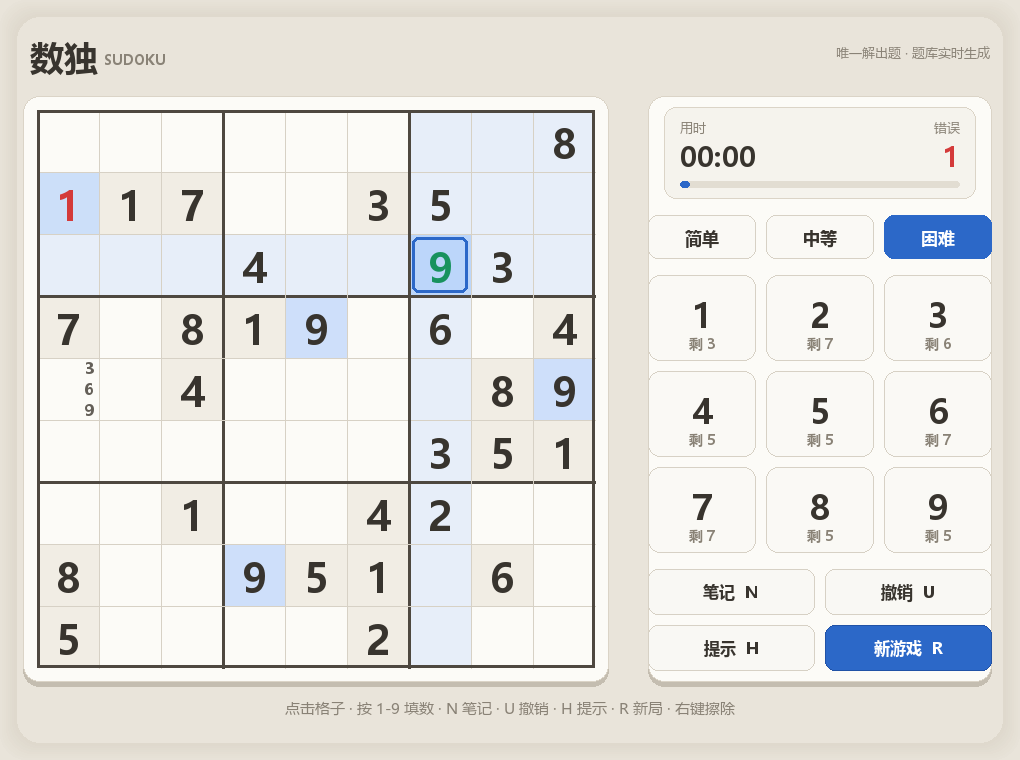
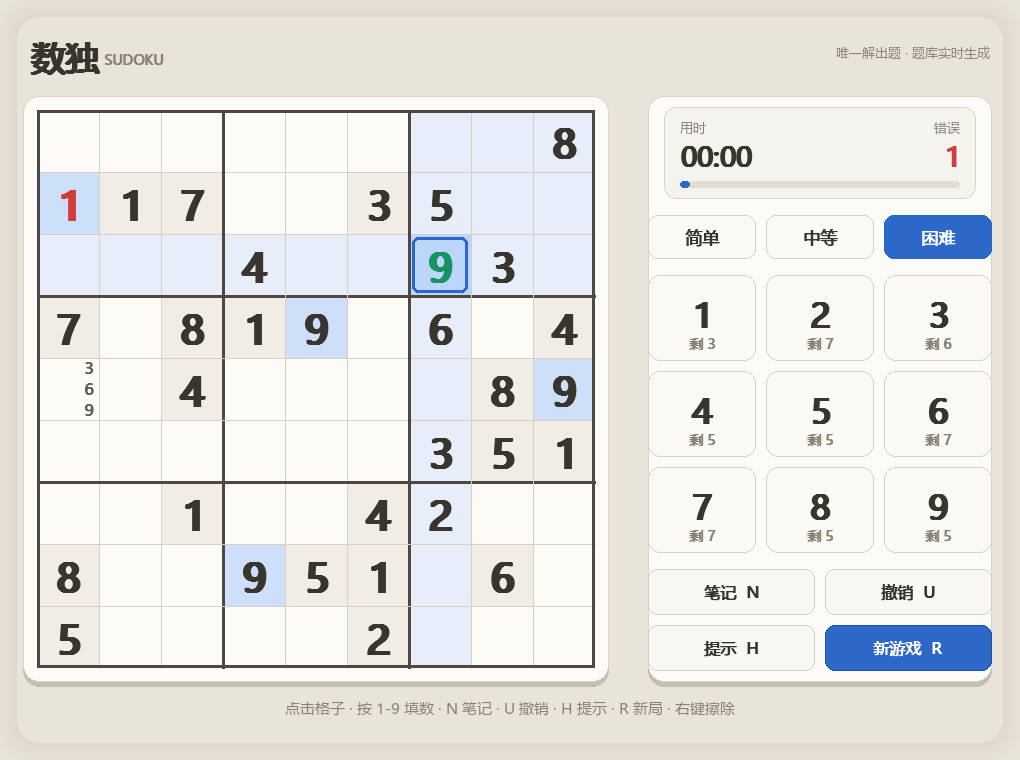
v1.1: 跨平台中文字体字形校验，修 Linux 上必然出现的豆腐块
原 Linux 分支只留了 /usr/share/fonts/truetype/droid/DroidSansFallbackFull.ttf
一条路径，它属 fonts-droid-fallback 包、主流发行版默认不装 —— 装了
fonts-noto-cjk 也对不上，于是必然落到 SysFont(None)，满屏方框。

字体：
- 探测改为三级（候选路径 → fontconfig 族名 → SysFont），每一级都做字形校验：
  渲染多个不同汉字比对位图，只有真画得出汉字才采用
- 候选补全 Windows / macOS / Linux 三平台常见安装位置（Noto CJK、文泉驿、
  华文、思源、Droid 等）
- 缓存 Font 增加 reset_font_cache()：pygame.quit() 会释放底层 TTF_Font，
  复用旧缓存对象会在 render 时直接段错误，故每次 pygame.init() 后清缓存

自检：
- 新增 4 条字体断言（反面样本 / 探针 / 正向 / 反事实回归）
- 自检新增断言计数，运行结束打印准确条数
- 断言总数 914 → 918

其他：
- run 脚本弃用清华源（对新版 pip 返回 403），改腾讯云镜像 + 官方源回退
- 新增 --version

diff --git a/sudoku.py b/sudoku.py
@@ -28,6 +28,8 @@ import sys
 
 import pygame
 
+__version__ = "1.1"
+
 try:
     import numpy as _np
 except Exception:                                    # numpy 缺失 -> 降级静音
@@ -314,14 +316,48 @@ def fmt_time(t):
 
 
 _FONT_CACHE = {}
-_FONT_PATHS = (
+
+# 跨平台中文界面字体：按「候选路径 → fontconfig 族名 → SysFont」逐级探测，
+# 每一级都必须通过字形校验 —— 只有真的画得出汉字才会被采用。
+#
+# 为什么非要验字形：pygame 的 match_font 会给出「名字沾边、其实没有汉字」的
+# 字体（本机实测 dejavusans / arial / liberationsans 一律命中 Arial Narrow），
+# 一旦采用，界面中文就会静默变成一屏方框。
+# 旧版 Linux 只有一条 DroidSansFallbackFull.ttf 路径（属 fonts-droid-fallback
+# 包，主流发行版默认不装），装了 fonts-noto-cjk 也对不上 —— 必然落到
+# SysFont(None)，满屏方框。
+FONT_CANDIDATES = [
+    # Windows
     r"C:\Windows\Fonts\msyh.ttc",
     r"C:\Windows\Fonts\msyhbd.ttc",
     r"C:\Windows\Fonts\simhei.ttf",
+    r"C:\Windows\Fonts\Deng.ttf",
     r"C:\Windows\Fonts\simsun.ttc",
-    r"/System/Library/Fonts/PingFang.ttc",
+    # macOS
+    "/System/Library/Fonts/PingFang.ttc",
+    "/System/Library/Fonts/STHeiti Medium.ttc",
+    "/System/Library/Fonts/Hiragino Sans GB.ttc",
+    "/Library/Fonts/Arial Unicode.ttf",
+    # Linux（Debian/Ubuntu · Fedora · Arch 的常见安装位置）
+    "/usr/share/fonts/opentype/noto/NotoSansCJK-Regular.ttc",
+    "/usr/share/fonts/opentype/noto/NotoSansCJKsc-Regular.otf",
+    "/usr/share/fonts/truetype/noto/NotoSansCJK-Regular.ttc",
+    "/usr/share/fonts/noto-cjk/NotoSansCJK-Regular.ttc",
+    "/usr/share/fonts/truetype/wqy/wqy-zenhei.ttc",
+    "/usr/share/fonts/truetype/wqy/wqy-microhei.ttc",
+    "/usr/share/fonts/wenquanyi/wqy-zenhei/wqy-zenhei.ttc",
+    "/usr/share/fonts/truetype/arphic/uming.ttc",
     "/usr/share/fonts/truetype/droid/DroidSansFallbackFull.ttf",
-)
+]
+
+# 路径未必覆盖所有发行版，再交给 fontconfig 按族名找一遍。
+# 这里刻意不放 dejavusans / arial 这类没有汉字字形的通用族名。
+FONT_FAMILIES = ("notosanscjksc,notosanscjk,sourcehansanssc,wqyzenhei,wqymicrohei,"
+                 "microsoftyahei,microsoftyaheiui,msyh,simhei,simsun,dengxian,"
+                 "pingfangsc,hiraginosansgb,stheiti,heitisc,arialunicodems")
+
+_CJK_PROBE = "汉字测试"        # 探针：这几个字必须渲染出彼此不同的字形
+_warned_no_cjk = False
 
 
 class _Font:
@@ -344,28 +380,126 @@ class _Font:
         return getattr(self._f, name)
 
 
+def _img_bytes(surf):
+    """取 Surface 的原始字节。pygame 2.1.3 起 tostring 改名 tobytes，两版都兼容。"""
+    fn = getattr(pygame.image, "tobytes", None) or pygame.image.tostring
+    return fn(surf, "RGBA")
+
+
+def reset_font_cache():
+    """清空字体缓存 —— 重新 pygame.init() 之后必须调用。
+
+    为什么不能指望「取用时验活」：pygame.quit() 会释放底层的 TTF_Font，
+    缓存里的 Font 对象随即失效，再拿它 render 会**直接崩在 C 层**（段错误），
+    连 Python 异常都抓不住。所以只能在每次初始化之后主动清掉再重新探测。
+    """
+    _FONT_CACHE.clear()
+
+
+def font_covers_cjk(font):
+    """这个字体真的画得出汉字吗？
+
+    字体缺字时 pygame 会把所有汉字都画成同一个 .notdef 方框（豆腐块），
+    所以拿几个不同的汉字渲染出来比字节：只要有两张位图一模一样，就说明
+    字体里根本没有汉字字形，绝不能拿它当界面字体。
+    """
+    try:
+        digs = [_img_bytes(font.render(ch, True, (255, 255, 255)))
+                for ch in _CJK_PROBE]
+    except Exception:
+        return False
+    return len(set(digs)) == len(digs)
+
+
+def _warn_no_cjk_font():
+    """只提示一次：一个中文字体都没找到时界面会是方框。"""
+    global _warned_no_cjk
+    if _warned_no_cjk:
+        return
+    _warned_no_cjk = True
+    print("[提示] 系统里没找到含汉字字形的字体，界面中文会显示成方框。\n"
+          "       Linux 装一个即可： sudo apt install fonts-noto-cjk",
+          file=sys.stderr)
+
+
 def get_font(size, bold=False):
-    """按候选路径找中文字体，找不到再退回默认字体。结果缓存。"""
+    """找一个真的能显示汉字的字体；全失败则退回默认字体并给出提示。"""
     key = (size, bold)
     f = _FONT_CACHE.get(key)
     if f is not None:
         return f
+
     raw = None
-    order = _FONT_PATHS if not bold else (_FONT_PATHS[1],) + _FONT_PATHS
-    for p in order:
-        if os.path.exists(p):
-            try:
-                raw = pygame.font.Font(p, size)
-                break
-            except Exception:
-                raw = None
+    for p in FONT_CANDIDATES:                         # ① 平台常见路径
+        if not os.path.exists(p):
+            continue
+        try:
+            cand = pygame.font.Font(p, size)
+        except Exception:
+            continue
+        cand.set_bold(bold)
+        if font_covers_cjk(cand):
+            raw = cand
+            break
+
+    if raw is None:                                   # ② fontconfig 按族名
+        try:
+            path = pygame.font.match_font(FONT_FAMILIES, bold=bold)
+            if path:
+                cand = pygame.font.Font(path, size)
+                cand.set_bold(bold)
+                if font_covers_cjk(cand):
+                    raw = cand
+        except Exception:
+            pass
+
+    if raw is None:                                   # ③ SysFont 最后兜底
+        try:
+            cand = pygame.font.SysFont(FONT_FAMILIES, size, bold=bold)
+            if font_covers_cjk(cand):
+                raw = cand
+        except Exception:
+            pass
+
     if raw is None:
-        raw = pygame.font.SysFont(None, size)
-    if bold:
-        raw.set_bold(True)
+        # 一个汉字都画不出来的字体不能用，宁可退回 pygame 自带字体并明确提示。
+        _warn_no_cjk_font()
+        raw = pygame.font.Font(None, size)
+        raw.set_bold(bold)
+
     f = _Font(raw, key)
     _FONT_CACHE[key] = f
     return f
+
+
+def font_regression(bad_path):
+    """反事实自检：把候选全换成「没有汉字的字体」，get_font 必须识别出来。
+
+    返回 (bool, str)。旧写法「名字匹配成功就直接用」会让界面静默变成方框，
+    这条断言就是防止那种写法复活。
+    """
+    global FONT_FAMILIES, _warned_no_cjk
+    saved_cands = list(FONT_CANDIDATES)
+    saved_fams = FONT_FAMILIES
+    saved_cache = dict(_FONT_CACHE)
+    saved_warned = _warned_no_cjk
+    try:
+        FONT_CANDIDATES[:] = [bad_path]
+        FONT_FAMILIES = "dejavusans,arial,liberationsans"
+        _FONT_CACHE.clear()
+        # 这个场景注定找不到汉字字体，别刷出误导性的「你的系统没有中文字体」
+        _warned_no_cjk = True
+        got = get_font(24)
+        ref = pygame.font.Font(None, 24)
+        same = (_img_bytes(got.render("汉", True, (255, 255, 255)))
+                == _img_bytes(ref.render("汉", True, (255, 255, 255))))
+        return same, bad_path
+    finally:
+        FONT_CANDIDATES[:] = saved_cands
+        FONT_FAMILIES = saved_fams
+        _FONT_CACHE.clear()
+        _FONT_CACHE.update(saved_cache)
+        _warned_no_cjk = saved_warned
 
 
 _TEXT_CACHE = {}
@@ -1237,6 +1371,9 @@ for _i in range(1, 10):
 
 def main(argv=None):
     argv = list(sys.argv[1:] if argv is None else argv)
+    if "--version" in argv:
+        print("sudoku %s" % __version__)
+        return 0
     diff = "easy"
     if "--diff" in argv:
         diff = argv[argv.index("--diff") + 1]
@@ -1254,6 +1391,9 @@ def main(argv=None):
     except Exception:
         pass
     pygame.init()
+
+    # 重新初始化后旧 Font 已失效，必须清缓存（不清会在 render 时段错误）
+    reset_font_cache()
     try:
         pygame.mixer.init()
     except Exception:

diff --git a/selftest.py b/selftest.py
@@ -29,9 +29,11 @@ import sudoku as S  # noqa: E402
 
 SHOT_DIR = os.path.join(os.path.dirname(os.path.abspath(__file__)), "preview")
 FAILURES = []
+CHECKS = [0]              # 已执行的断言总数（成功也计），用于 README 徽章
 
 
 def check(cond, msg):
+    CHECKS[0] += 1
     if not cond:
         FAILURES.append(msg)
         print("  [FAIL] " + msg)
@@ -748,6 +750,9 @@ def main():
     except Exception:
         pass
     pygame.init()
+
+    # 重新初始化后旧 Font 已失效，必须清缓存（不清会在 render 时段错误）
+    S.reset_font_cache()
     try:
         pygame.mixer.init()
     except Exception:
@@ -782,18 +787,56 @@ def main():
     test_full_playthrough(game)
     test_render_and_perf(game)
 
+    # ------------------------------------------------------------------
+    note("中文字体字形校验（跨平台不出现豆腐块）")
+    bad_path = pygame.font.match_font("dejavusans,arial,liberationsans")
+    bad_font = None
+    if bad_path and os.path.exists(bad_path):
+        try:
+            bad_font = pygame.font.Font(bad_path, 24)
+        except Exception:
+            bad_font = None
+    check(bad_font is not None and not S.font_covers_cjk(bad_font),
+          "反面样本：本机取不到「名字沾边但没有汉字字形」的字体（path=%s）" % bad_path)
+    check(not S.font_covers_cjk(pygame.font.Font(None, 24)),
+          "探针：默认字体 Font(None) 应被判定为画不出汉字")
+
+    usable = None
+    for _p in S.FONT_CANDIDATES:
+        if not os.path.exists(_p):
+            continue
+        try:
+            _pf = pygame.font.Font(_p, 24)
+        except Exception:
+            continue
+        if S.font_covers_cjk(_pf):
+            usable = _p
+            break
+    if usable:
+        check(S.font_covers_cjk(S.get_font(24)),
+              "正向：系统装了中文字体时，get_font 选中的字体应能画出汉字（可用候选 %s）" % usable)
+    else:
+        note("本机没有任何候选中文字体，正向断言跳过")
+
+    if bad_font is not None:
+        _same, _src = S.font_regression(bad_path)
+        check(_same,
+              "反事实：候选全是无汉字字体时应退回默认字体，而不是拿来就用（实际采用 %s）" % _src)
+    else:
+        note("取不到无汉字反面样本，反事实断言跳过")
+
     if "--shots" in sys.argv:
         make_shots(game)
         scan_pure_background()
 
     print("=" * 66)
     if FAILURES:
-        print("HARNESS FAILED (%d)" % len(FAILURES))
+        print("HARNESS FAILED  %d / %d checks" % (len(FAILURES), CHECKS[0]))
         for m in FAILURES:
             print("   - " + m)
         pygame.quit()
         return 1
-    print("HARNESS PASSED   %.2fs" % (time.perf_counter() - t0))
+    print("HARNESS PASSED  %d checks  %.2fs" % (CHECKS[0], time.perf_counter() - t0))
     pygame.quit()
     return 0
 

diff --git a/README.md b/README.md
@@ -5,7 +5,8 @@
 ![Language](https://img.shields.io/badge/Python-3.10%2B-3776AB?logo=python&logoColor=white)
 ![Dependency](https://img.shields.io/badge/dependency-pygame-2C8E4E)
 ![License](https://img.shields.io/badge/license-MIT-green)
-![Selftest](https://img.shields.io/badge/selftest-914%20passed-brightgreen)
+![Version](https://img.shields.io/badge/version-1.1-blue)
+![Selftest](https://img.shields.io/badge/selftest-918%20passed-brightgreen)
 
 ## 预览
 
@@ -16,6 +17,12 @@
 | 提示 | 通关 | 通关动画 |
 | :---: | :---: | :---: |
 | ![提示](preview/04_hint.png) | ![通关](preview/05_won.png) | ![波纹](preview/06_won_ripple.png) |
+
+## 跨平台中文字体
+
+界面中文在 Windows / macOS / Linux 上都能正常显示。程序按「平台常见字体路径 → fontconfig 族名 → SysFont」逐级探测，**每一级都做字形校验**（渲染几个不同汉字比对位图），只有真的画得出汉字才会采用。
+
+> 这一步不是多余的：pygame 的 `match_font` 会给出「名字沾边、其实没有汉字」的字体（实测 `dejavusans`、`arial` 都会命中 Arial Narrow），一旦采用，界面就会静默变成一屏方框。真的找不到中文字体时，程序会明确提示装字体（`sudo apt install fonts-noto-cjk`），而不是假装正常。自检里配了正反两条断言防止回归。
 
 ## 快速开始
 
@@ -32,7 +39,7 @@ cd sudoku
 | macOS / Linux | `sh run.sh` |
 | 任意平台手动 | `pip install -r requirements.txt` 然后 `python sudoku.py` |
 
-启动脚本会自己找 Python、缺 pygame 就自动装（走清华镜像），首次运行不会卡住。
+启动脚本会自己找 Python、缺 pygame 就自动装（走腾讯云镜像（失败自动回退官方源）），首次运行不会卡住。
 
 > 没有官方 pygame wheel 的 Python 版本（如 3.14）会自动改装 `pygame-ce` —— 社区分支，API 兼容，装完同样是 `import pygame`。
 
